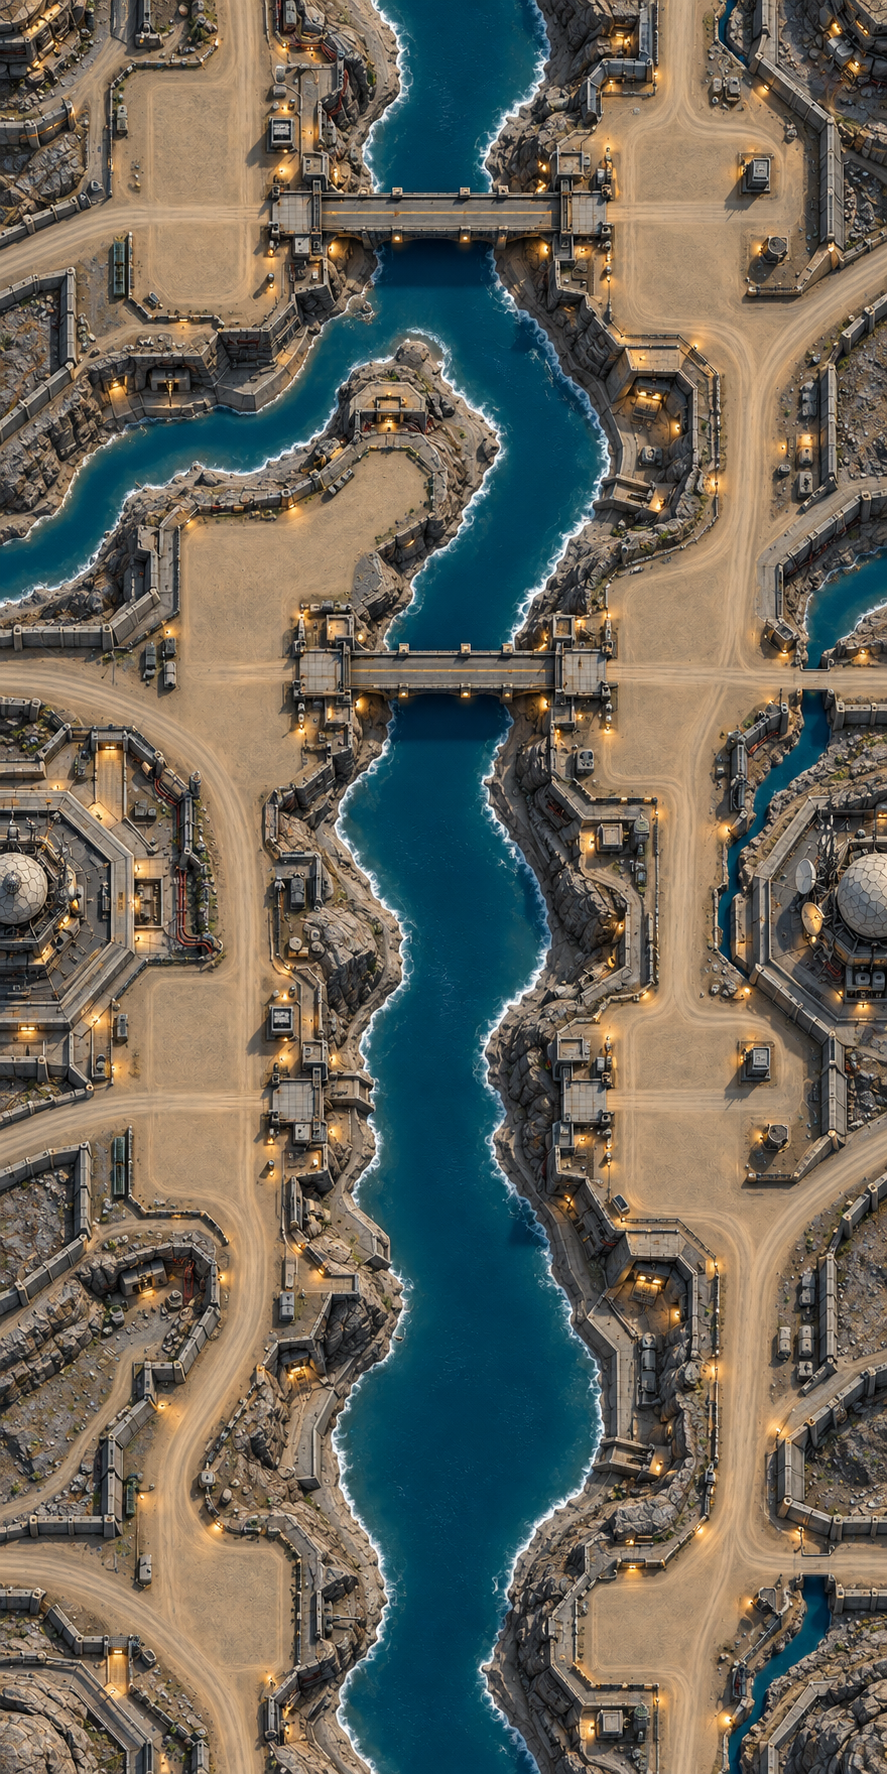
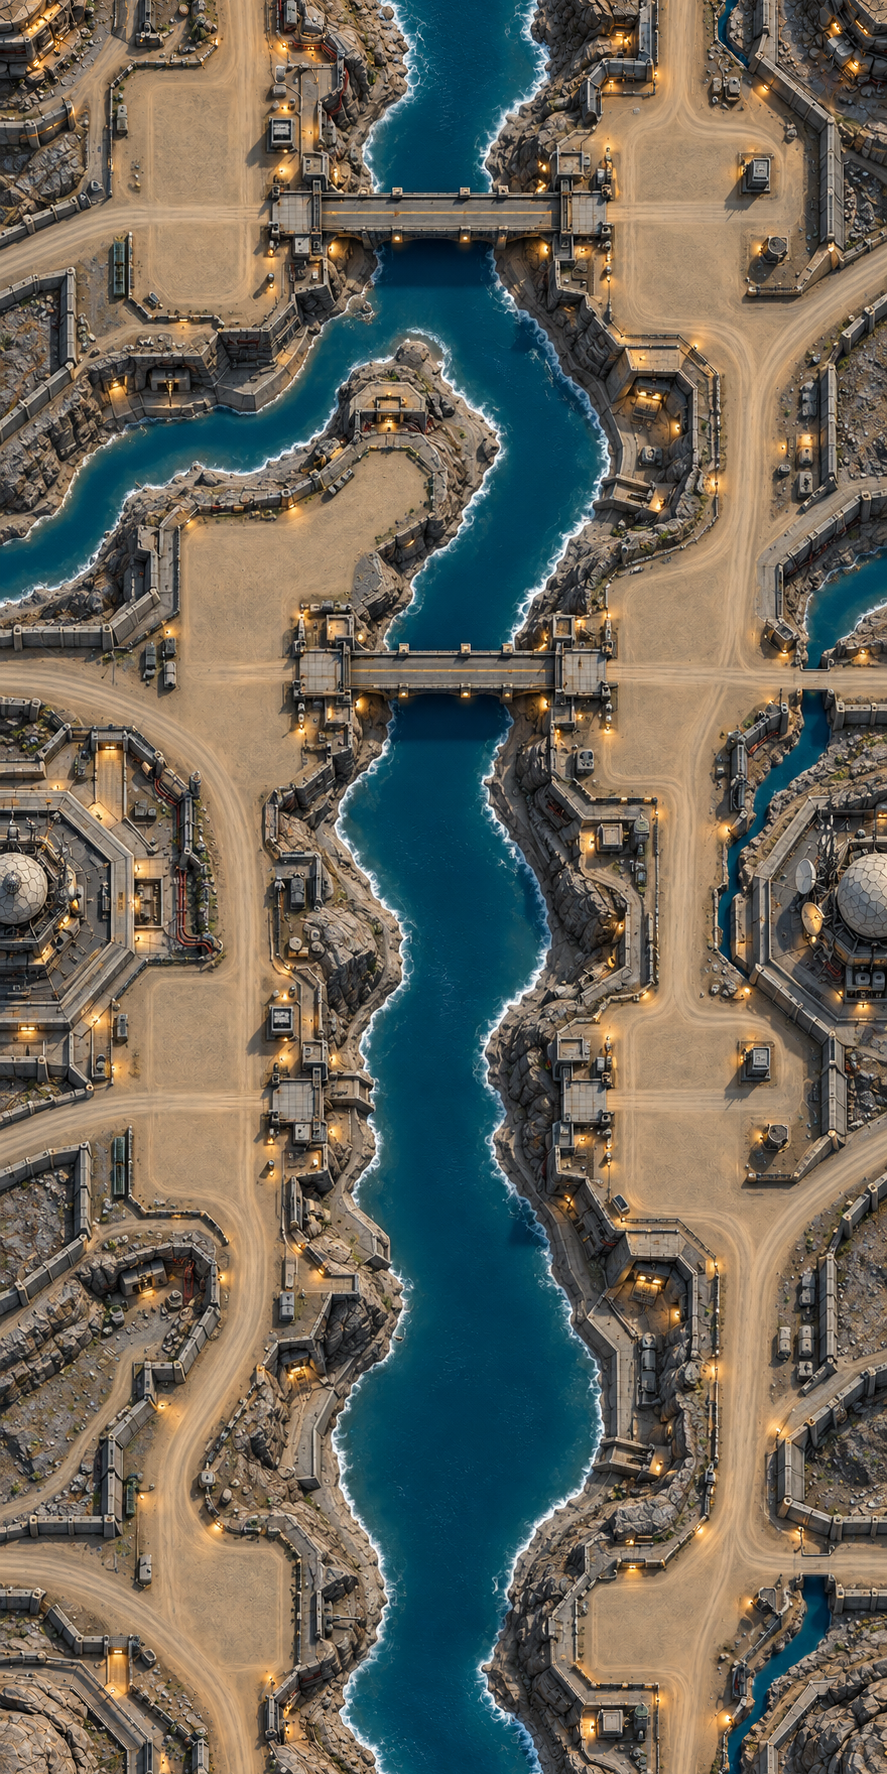
Improved background stitching

diff --git a/assets/background/SECTOR_ART.md b/assets/background/SECTOR_ART.md
@@ -1,5 +1,33 @@
 # Sector terrain assets
 
+## Industrial geometry revision
+
+The first seam repair left malformed rails, clarifier rims and silo roofs. A second built-in image_gen edit reconstructs those as complete objects. `tools/revise_industrial_seam.gd` applies the corrected outer sides only; columns 265 through 694 are verified pixel-identical to the preceding version. This revision can affect the outermost 231 rows at each end on those sides, superseding the earlier 159-row limit for the industrial texture. The fortress texture is unchanged by this revision.
+
+Final asset: `assets/background/industrial_riverworks.png`. Close-up previews: `artifacts/seams/industrial-left-detail.png` and `industrial-right-detail.png`; complete join: `industrial-revision-after.png`.
+
+Prompt:
+Precise architectural correction of this top-down industrial game map strip. Preserve river, roads, bridge, coastline, lighting, color and exact layout. Fix malformed industrial objects around the horizontal middle: LEFT at x=145..225 y=185..295 the blue clarifier/centrifuge must be ONE geometrically perfect round tank with ONE continuous circular rim and ONE straight diagonal rotating arm through its center, no overlapping circles, no doubled lower rim or duplicate arm. Far LEFT clipped silos x=0..65 y=145..330: replace intersecting mismatched halves with TWO clearly separated complete circular tank roofs, consistent circular rims and cylindrical walls; no half circles glued together. Far RIGHT x=815..887 y=180..340: same coherent nonintersecting silo geometry. Rails at x=100 and x=780 through central y=160..340 must remain TWO continuous smoothly curving parallel rails with evenly spaced sleepers, not disconnected tracks or kinks, no branching or doubled ghost structures. You may simplify/remove surplus pipes next to these objects to make their geometry physically coherent. Keep top 90 and bottom 90 rows unchanged, same 887:512 aspect ratio, no crop, no shift, no zoom, no blur. Correct the actual shapes, not just the seam. Output detailed consistent game art.
+
+
+## Cyclical seam repair
+
+Both textures were repaired with the built-in image_gen tool using a 512-row reference strip made from the final 256 rows followed by the first 256 rows. The generated continuous scene was inserted across the wrap; only the outer 159 rows at each end can change, with a feathered transition into the original art. The central 1,454 rows remain pixel-identical. Dimensions and map coordinates are unchanged.
+
+Final assets: `assets/background/industrial_riverworks.png` and `assets/background/command_fortress.png`.
+Offline preparation and assembly: `tools/prepare_seams.gd`, `tools/apply_seams.gd`. Working strips, generated patches, originals and triple-stack previews are under `artifacts/seams/` (local verification artifacts). The runtime needs only the two final textures.
+
+The shader now uses repeat filtering instead of mirrored edge blending. Vertical ripple and glint frequencies use whole cycles, so water animation is periodic too.
+
+### Industrial repair prompt
+
+Edit this game terrain seam strip. This image joins the bottom of a vertically looping industrial map (upper half) to its top (lower half). Repair ONLY the horizontal discontinuity at the exact middle y=256: connect all pipes, roads, tanks, retaining walls and river banks smoothly with natural coherent geometry. Repaint the central band y=145..365 to make one continuous overhead landscape. Preserve the outer top 100 rows and bottom 100 rows and all x positions as precisely as possible: these must rejoin the unedited map. Do not redesign, shift, zoom, crop or add landmarks. Match original texture detail, colors, lighting and orthographic perspective. No blur strip, no mirrored geometry, no crossfade ghosting. Same landscape aspect ratio and composition as input. This is a localized production texture repair, not a new scene.
+
+### Fortress repair prompt
+
+Edit this game terrain seam strip. Upper half is bottom of vertically looping fortress map, lower half is top. Repair ONLY horizontal discontinuity at middle y=256: connect fortress walls, service roads, cliff shapes and riverbanks as continuous natural structures. Repaint central band y=145..365. Preserve outer top 100 rows and bottom 100 rows and all x positions precisely so patch rejoins existing art. Preserve same landscape aspect, original composition, scale, sharpness, top-down orthographic perspective, lighting and color. No redesign, zoom, crop, text, new landmarks, mirrored terrain or blurry crossfade. Make the middle a single coherent overhead scene with no visible horizontal stitching line.
+
+
 Created with the built-in image_gen tool using dessert_bridges.png as the edit
 reference. Outputs: industrial_riverworks.png and command_fortress.png.
 Both delivered assets are 887 x 1774, sampled in normalized UV coordinates over

diff --git a/TESTING.md b/TESTING.md
@@ -112,7 +112,8 @@ share the original normalized map coordinates, retaining bridge routes and
 structure yards. Outer vehicle routes shift inward to follow the new service
 roads. Scenery damage and wreck state persist during the five-second advancing
 terrain blend; checkpoint retries initialize the correct map immediately.
-The terrain shader blends opposing edges over a narrow strip at the loop seam.
+Both terrain textures have repaired cyclical artwork at their boundaries. The
+shader uses repeat filtering and periodic water motion without mirrored blending.
 
 Run tests with rendering enabled (screenshot checkpoints cannot run headless):
 - res://tests/visual_pass_smoke.gd
@@ -128,3 +129,11 @@ bosses, real projectile collisions, vehicle firing and persistent destruction.
 
 Source assets and generation prompts: assets/background/SECTOR_ART.md.
 APK and web distributions require a new export.
+
+## Terrain seam verification
+
+Run `res://tests/terrain_seam_smoke.gd` with rendering enabled. It captures
+both maps at three scroll positions with the boundary in the middle of the screen.
+Inspect `artifacts/seams/sector-2-wrap-1.png` and `sector-3-wrap-1.png`.
+Raw joins and triple-stack previews are also in `artifacts/seams/`.
+The offline assembly asserts that rows 160 through height-161 are unchanged.
